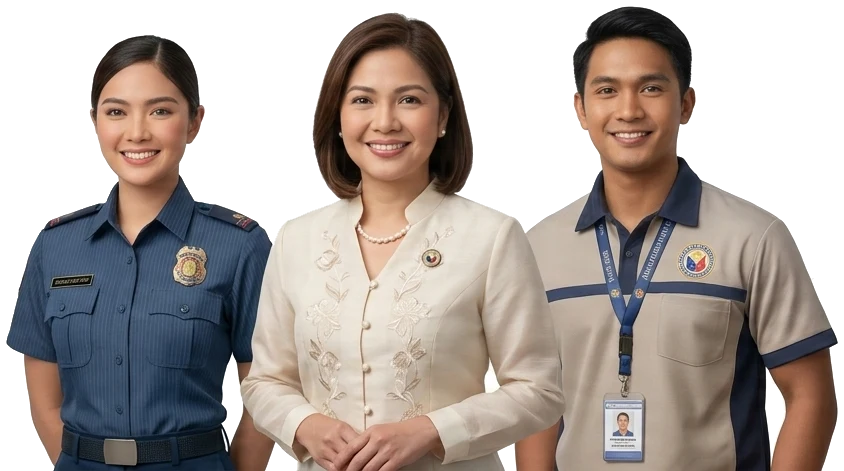
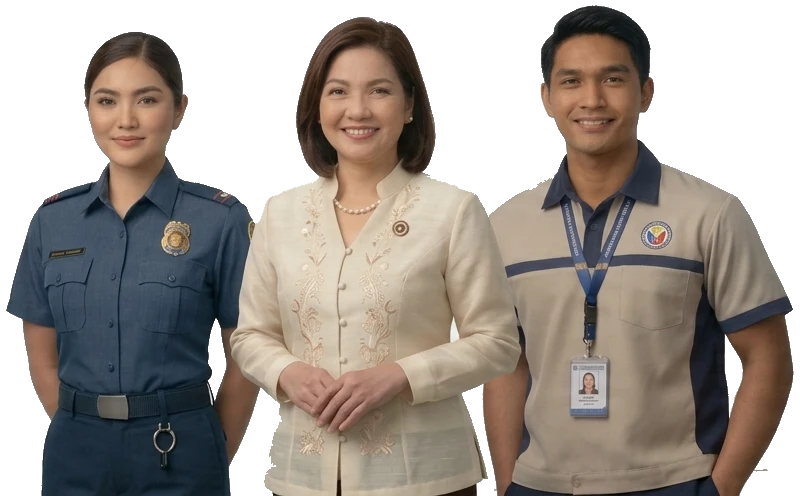
Refactor code structure for improved readability and maintainability

diff --git a/frontend/src/pages/OfficesPage.jsx b/frontend/src/pages/OfficesPage.jsx
@@ -1,6 +1,7 @@
 import { useState } from 'react'
 import { ChevronDown, Search } from 'lucide-react'
 import PageHeader from '../components/PageHeader'
+import officeStaffImage from '../assets/page-offices.webp'
 import OfficeCard from '../components/OfficeCard'
 import { CardGridSkeleton, EmptyState, ErrorState } from '../components/StateMessage'
 import { useFetch } from '../hooks/useFetch'
@@ -35,6 +36,12 @@ export default function OfficesPage() {
         kicker="Office directory"
         title="Where to go in General Santos"
         description="Agency branches and local offices with addresses, office hours, and directions."
+        image={{
+          src: officeStaffImage,
+          alt: 'Three smiling office staff ready to assist residents',
+          width: 732,
+          height: 489,
+        }}
       >
         <div className="mt-8 grid gap-3 rounded-2xl border border-stone-200 bg-white p-4 shadow-lg shadow-bay-900/5 sm:grid-cols-[1.6fr_1fr] sm:p-5">
           <div>

diff --git a/frontend/src/pages/AgenciesPage.jsx b/frontend/src/pages/AgenciesPage.jsx
@@ -25,8 +25,8 @@ export default function AgenciesPage() {
         image={{
           src: staffImage,
           alt: 'Three smiling public service workers',
-          width: 844,
-          height: 471,
+          width: 800,
+          height: 496,
         }}
       />
 
